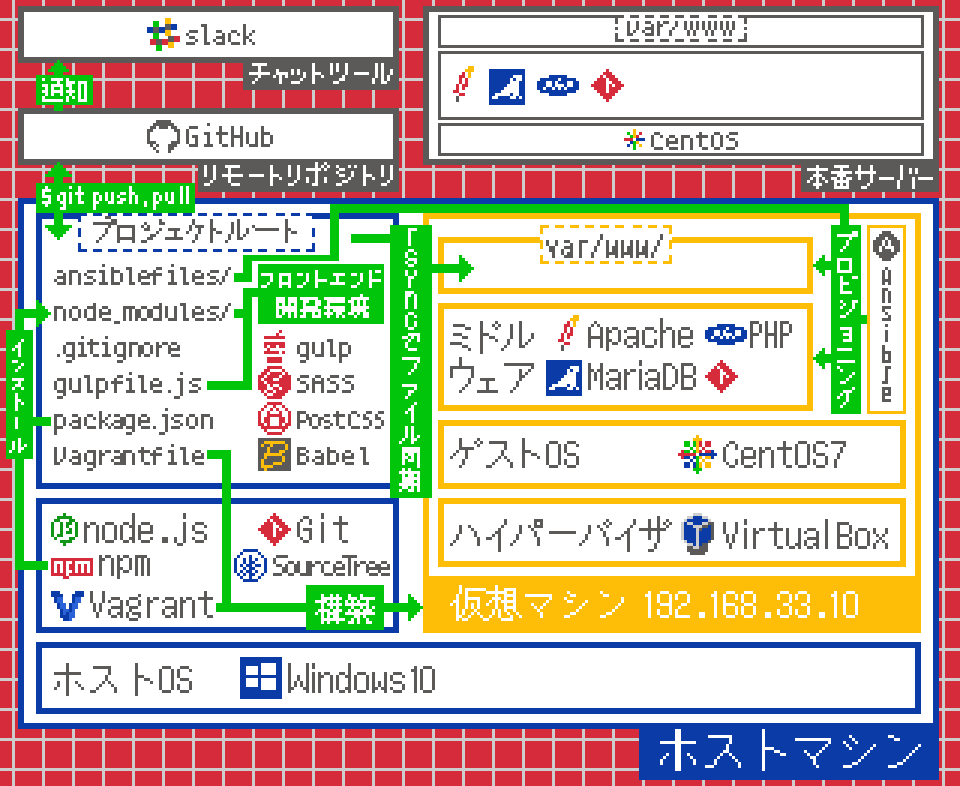
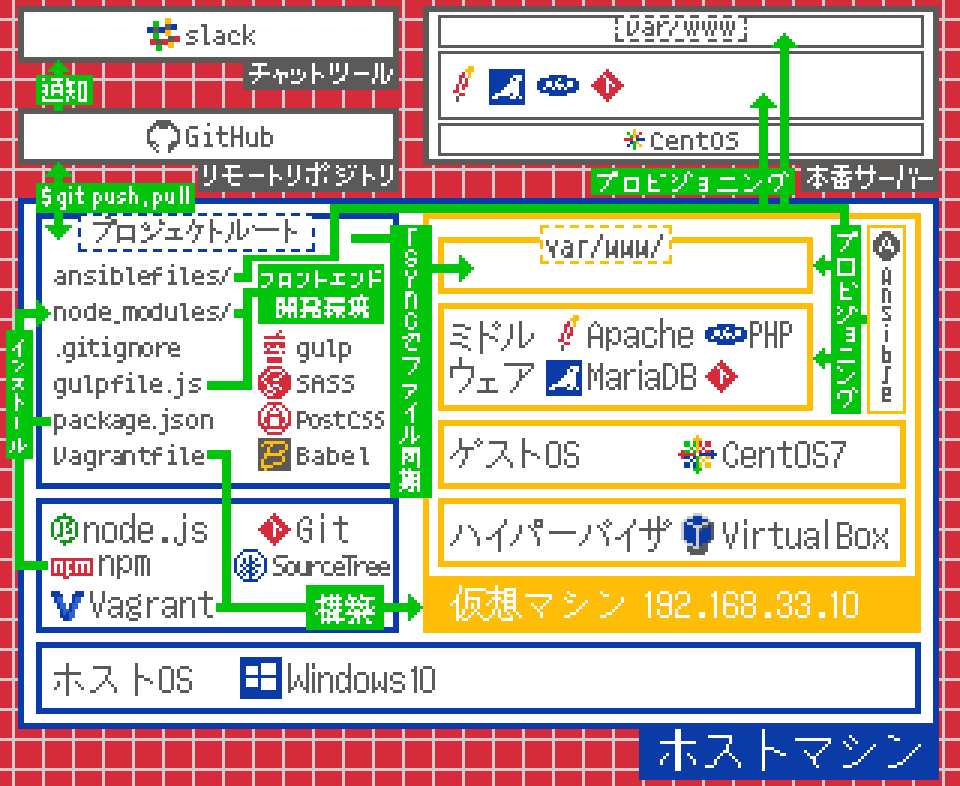
本番サーバーのプロビジョニングを追記

Changed region(s): [[0.5938, 0.0305, 0.8438, 0.2748], [0.875, 0.3359, 0.9062, 0.4275], [0.875, 0.4885, 0.9062, 0.5191]]

diff --git a/README.md b/README.md
@@ -193,6 +193,27 @@ WinSCPで仮想マシンに接続する場合
 - [Vimの場合](https://github.com/editorconfig/editorconfig-vim)
 - [VisualStudioの場合](https://docs.microsoft.com/ja-jp/visualstudio/ide/create-portable-custom-editor-options)
 
+【*】本番サーバーのプロビジョニング
+1. 本番サーバーをレンタルして、IPアドレスとSSHのrootパスワードを入手する。
+2. 本番サーバーの管理パネルからCentOs7をインストール
+3. `/ansiblefiles/inventories/remote_production.ini` を編集
+```ini
+[webservers]
+1のIPアドレスを入力
+
+[dbservers]
+1のIPアドレスを入力
+```
+4. ホストマシンで、`$ vagrant up`で仮想マシンを立ち上げる
+5. 仮想マシンで以下コマンドを実行し、パスワードを求められるので1のものを入力
+```sh
+$ ansible-playbook -i /vagrant/ansiblefiles/inventories/remote_production.ini /vagrant/ansiblefiles/site.yml --user=root --ask-pass -c paramiko
+```
+
+【*】Jenkinsで本番サーバーのデプロイ
+1. 記述中
+
+
 ## このファイル・ディレクトリ何？
 | ファイル・ディレクトリ | 内容 |
 |--|--|
